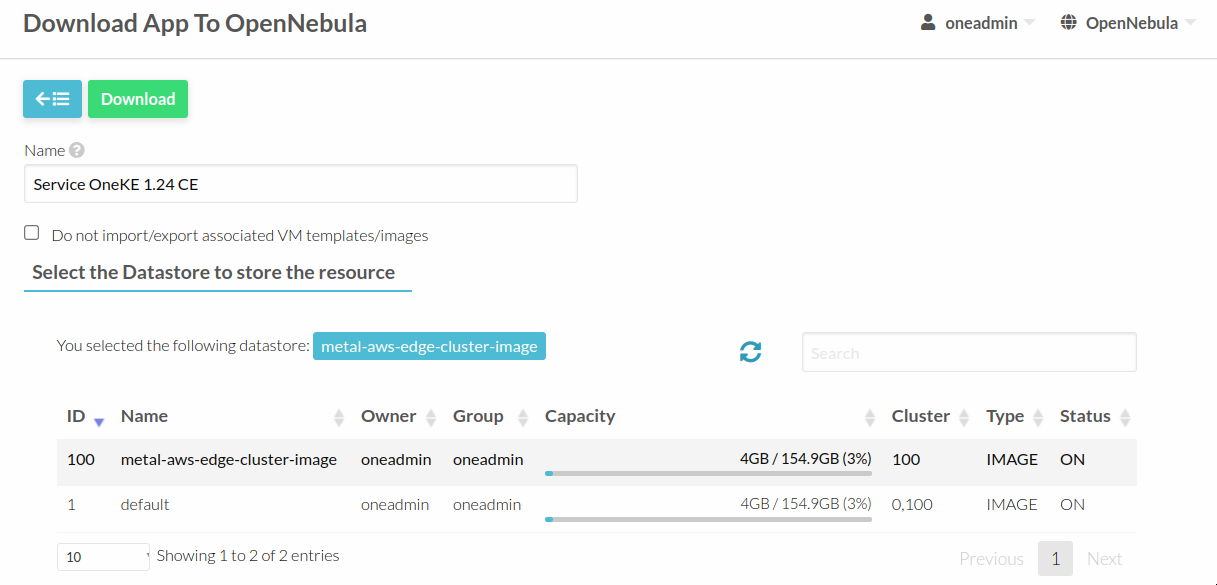
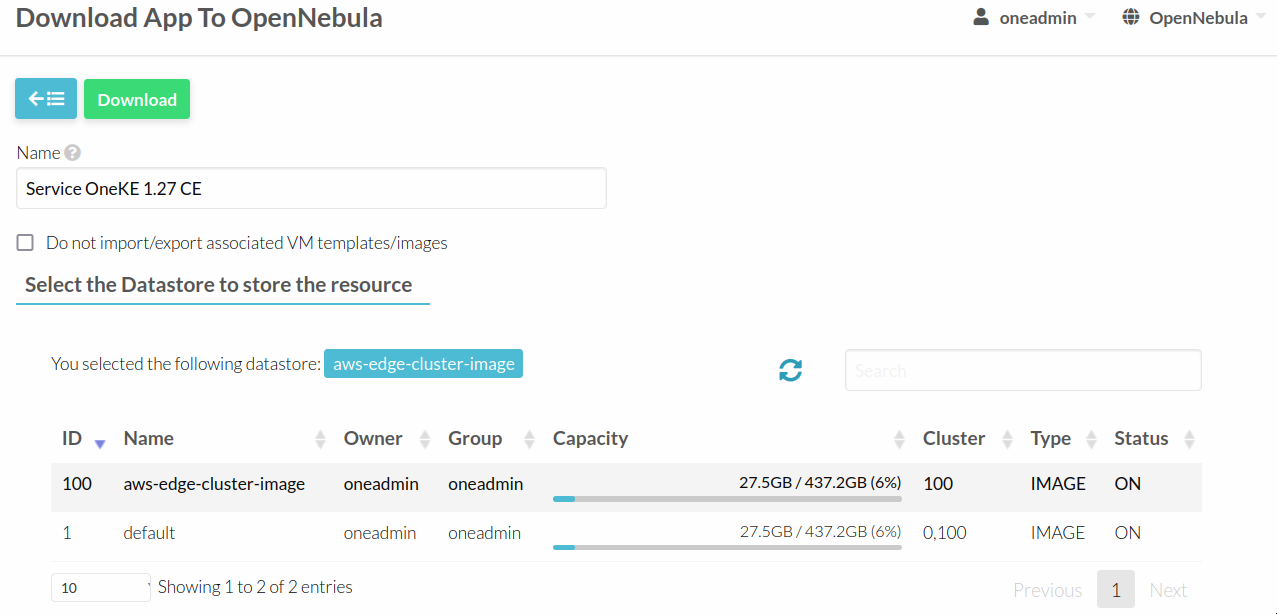
M #-: Update OneKE 1.27 QS + misc fixes (#2583)

diff --git a/source/quick_start/usage_basics/running_kubernetes_clusters.rst b/source/quick_start/usage_basics/running_kubernetes_clusters.rst
@@ -13,7 +13,7 @@ This guide assumes that you have deployed the OpenNebula front-end following the
 Step 1. Download the OneFlow Service from the Marketplace
 ~~~~~~~~~~~~~~~~~~~~~~~~~~~~~~~~~~~~~~~~~~~~~~~~~~~~~~~~~~
 
-Log in to Sunstone as oneadmin. Go to the ``Storage --> Apps`` tab and search for ``OneKE``. Select the ``Service OneKE 1.24 CE`` and click on the icon with the cloud and the down arrow inside (two positions to the right from the green ``+``).
+Log in to Sunstone as oneadmin. Go to the ``Storage --> Apps`` tab and search for ``OneKE``. Select the ``Service OneKE 1.27 CE`` and click on the icon with the cloud and the down arrow inside (two positions to the right from the green ``+``).
 
 |kubernetes-qs-marketplace|
 
@@ -21,7 +21,7 @@ Now you need to select a datastore. Select the ``metal-aws-edge-cluster-image`` 
 
 |kubernetes-qs-marketplace-datastore|
 
-The Appliance will be ready when the image in ``Storage --> Images`` switches to ``READY`` from its ``LOCKED`` state. This process may take significant amount of time based on the networking resources available in your infrastructure (Kubernetes 1.24 amounts to a total of 120GB).
+The Appliance will be ready when the image in ``Storage --> Images`` switches to ``READY`` from its ``LOCKED`` state. This process may take significant amount of time based on the networking resources available in your infrastructure (Kubernetes 1.27 amounts to a total of 120GB).
 
 .. |kubernetes-qs-marketplace|           image:: /images/kubernetes-qs-marketplace.png
 .. |kubernetes-qs-marketplace-datastore| image:: /images/kubernetes-qs-marketplace-datastore.png
@@ -45,9 +45,9 @@ Step 3. Instantiate the Kubernetes Service
 
 .. note::
 
-    You may want to adjust the VM templates before you progress further - go to ``Templates --> VMs``, click on the ``Service OneKE 1.24 CE`` and blue button ``Update`` at the top.
+    You may want to adjust the VM templates before you progress further - go to ``Templates --> VMs``, click on the ``Service OneKE 1.27 CE`` and blue button ``Update`` at the top.
 
-Proceed to the ``Templates --> Services`` tab and select the ``Service OneKE 1.24 CE`` Service Template. Click on ``+`` and then ``Instantiate``.
+Proceed to the ``Templates --> Services`` tab and select the ``Service OneKE 1.27 CE`` Service Template. Click on ``+`` and then ``Instantiate``.
 
 A required step is clicking on ``Network`` and selecting the ``metal-aws-edge-cluster-public`` network for public network.
 
@@ -99,7 +99,7 @@ Step 4. Deploy an Application
 
 Connect to the master Kubernetes node:
 
-.. prompt:: text $ auto
+.. prompt:: bash $ auto
 
     $ ssh -A -J root@1.2.3.4 root@172.20.0.2
 
@@ -112,7 +112,7 @@ where ``1.2.3.4`` should be the **public** address (AWS elastic IP) of a VNF nod
     at the location ``~/.ssh/id_rsa`` and make sure file permissions are correct, i.e. ``0600`` (or ``u=rw,go=``).
     For example:
 
-    .. prompt:: text $ auto
+    .. prompt:: bash $ auto
 
         $ ssh root@1.2.3.4 install -m u=rwx,go= -d /root/.ssh/ # make sure ~/.ssh/ exists
         $ scp ~/.ssh/id_rsa root@1.2.3.4:/root/.ssh/           # copy the key
@@ -120,27 +120,29 @@ where ``1.2.3.4`` should be the **public** address (AWS elastic IP) of a VNF nod
 
 Check if ``kubectl`` is working:
 
-.. prompt:: text $ auto
+.. prompt:: bash root@onekube-ip-172-20-0-2:~#  auto
 
-    $ kubectl get nodes
-    NAME                    STATUS   ROLES                       AGE   VERSION
-    onekube-ip-172-20-0-2   Ready    control-plane,etcd,master   15m   v1.24.1+rke2r2
-    onekube-ip-172-20-0-3   Ready    <none>                      13m   v1.24.1+rke2r2
-    onekube-ip-172-20-0-4   Ready    <none>                      12m   v1.24.1+rke2r2
+   root@onekube-ip-172-20-0-2:~# kubectl get nodes
+   NAME                    STATUS   ROLES                       AGE   VERSION
+   onekube-ip-172-20-0-2   Ready    control-plane,etcd,master   18m   v1.27.1+rke2r1
+   onekube-ip-172-20-0-3   Ready    <none>                      16m   v1.27.1+rke2r1
+   onekube-ip-172-20-0-4   Ready    <none>                      16m   v1.27.1+rke2r1
+
 
 Deploy nginx on the cluster:
 
-.. prompt:: yaml $ auto
+.. prompt:: bash root@onekube-ip-172-20-0-2:~# auto
 
-   $ kubectl run nginx --image=nginx --port 80
+   root@onekube-ip-172-20-0-2:~# kubectl run nginx --image=nginx --port 80
+   pod/nginx created
 
 After a few seconds, you should be able to see the nginx pod running
 
-.. prompt:: yaml $ auto
+.. prompt:: bash root@onekube-ip-172-20-0-2:~# auto
 
-    $ kubectl get pods
-    NAME    READY   STATUS    RESTARTS   AGE
-    nginx   1/1     Running   0          12s
+   root@onekube-ip-172-20-0-2:~# kubectl get pods
+   NAME    READY   STATUS    RESTARTS   AGE
+   nginx   1/1     Running   0          86s
 
 In order to access the application, we need to create a Service and IngressRoute objects that expose the application.
 
@@ -149,7 +151,7 @@ External IP Ingress
 
 Create a ``expose-nginx.yaml`` file with the following contents:
 
-.. prompt:: yaml $ auto
+.. code-block:: yaml
 
     ---
     apiVersion: v1
@@ -182,11 +184,11 @@ Create a ``expose-nginx.yaml`` file with the following contents:
 
 Apply the manifest using ``kubectl``:
 
-.. prompt:: text $ auto
+.. prompt:: bash root@onekube-ip-172-20-0-2:~# auto
 
-    $ kubectl apply -f expose-nginx.yaml
-    service/nginx created
-    ingressroute.traefik.containo.us/nginx created
+   root@onekube-ip-172-20-0-2:~# kubectl apply -f expose-nginx.yaml
+   service/nginx created
+   ingressroute.traefik.containo.us/nginx created
 
 Access the VNF node public IP in you browser using plain HTTP:
 

diff --git a/source/quick_start/operation_basics/provisioning_edge_cluster.rst b/source/quick_start/operation_basics/provisioning_edge_cluster.rst
@@ -9,6 +9,52 @@ In this section you can check all the steps needed to deploy an **Edge Cluster**
 
 .. important:: This guide assumes that you have deployed the OpenNebula front-end following the :ref:`Deployment Basics guide <deployment_basics>`. Here we'll be creating a metal Edge Cluster with KVM hypervisor, suitable for deploying both Virtual Machines and K8s clusters in the following :ref:`Usage Basics section <usage_basics>`.
 
+.. important:: If you're using OpenNebula 6.6.0 CE, before adding hosts to your environment, please apply this patch in all Frontend machines:
+
+   .. code-block:: diff
+
+        diff --git a/oneprovision/ansible/roles/opennebula-repository/tasks/centos.yml b/oneprovision/ansible/roles/opennebula-repository/tasks/centos.yml
+        index 022d2d2552..ffbf48cb77 100644
+        --- a/oneprovision/ansible/roles/opennebula-repository/tasks/centos.yml
+        +++ b/oneprovision/ansible/roles/opennebula-repository/tasks/centos.yml
+        @@ -19,7 +19,7 @@
+           when: ansible_distribution == "RedHat"
+         
+         - name: Add repository GPG key for RPM
+        -  rpm_key: key=https://downloads.opennebula.io/repo/repo.key
+        +  rpm_key: key=https://downloads.opennebula.io/repo/repo2.key
+           when: opennebula_repository_gpgcheck | bool
+         
+         - name: Add OpenNebula repository
+        @@ -27,7 +27,7 @@
+             name: opennebula
+             description: OpenNebula packages
+             baseurl: "{{ opennebula_repository_base }}/CentOS/{{ ansible_distribution_major_version }}/{{ ansible_architecture }}"
+        -    gpgkey: https://downloads.opennebula.io/repo/repo.key
+        +    gpgkey: https://downloads.opennebula.io/repo/repo2.key
+             gpgcheck: "{{ opennebula_repository_gpgcheck }}"
+             repo_gpgcheck: "{{ opennebula_repository_repo_gpgcheck }}"
+           notify: "clean repository metadata"
+        diff --git a/oneprovision/ansible/roles/opennebula-repository/tasks/debian.yml b/oneprovision/ansible/roles/opennebula-repository/tasks/debian.yml
+        index d74d0f076c..355786cfb7 100644
+        --- a/oneprovision/ansible/roles/opennebula-repository/tasks/debian.yml
+        +++ b/oneprovision/ansible/roles/opennebula-repository/tasks/debian.yml
+        @@ -8,7 +8,7 @@
+         
+         - name: Add repository key
+           apt_key:
+        -    url: https://downloads.opennebula.io/repo/repo.key
+        +    url: https://downloads.opennebula.io/repo/repo2.key
+             validate_certs: no
+             state: present
+           register: apt_result
+         
+
+   .. prompt:: bash # auto
+
+        # cd /usr/share/one/
+        # patch -Np1 < ~/oneprovision-repo.patch
+
 An Edge Cluster is a group of resources in OpenNebula and the corresponding resources in AWS, that are suitable to be run in edge locations with a minimal footprint. OpenNebula provides a specification of the cluster ready to be created.
 
 The following resources are created in OpenNebula when a new Edge Cluster is deployed:

diff --git a/source/marketplace/appliances/oneke.rst b/source/marketplace/appliances/oneke.rst
@@ -447,7 +447,7 @@ Load Balancing (MetalLB)
 
 - A dedicated namespace ``metallb-system`` is provided.
 - `Image Pull Policy <https://kubernetes.io/docs/concepts/containers/images/#image-pull-policy>`_ is optimized for airgapped deployments.
-- Precreated CRD configuration objects are provided (managed by `RKE2's Helm Integration <https://docs.rke2.io/helm/#automatically-deploying-manifests-and-helm-charts>`_ / installed in ``/var/lib/rancher/rke2/server/manifests/one-metallb-config.yaml``). Please refer to the official documentation on `MetalLB's configuration <https://metallb.universe.tf/configuration/>`_ to learn what the use cases of MetalLB are.
+- Precreated CRD configuration objects are provided (managed by RKE2 with `Helm Integration <https://docs.rke2.io/helm/#automatically-deploying-manifests-and-helm-charts>`_ / installed in ``/var/lib/rancher/rke2/server/manifests/one-metallb-config.yaml``). Please refer to the official documentation on `MetalLB's configuration <https://metallb.universe.tf/configuration/>`_ to learn what the use cases of MetalLB are.
 
 .. warning::
 

diff --git a/source/marketplace/appliances/oneke_changelog.rst b/source/marketplace/appliances/oneke_changelog.rst
@@ -1,3 +1,5 @@
+:orphan:
+
 OneKE's Features / Changelog
 ============================
 
